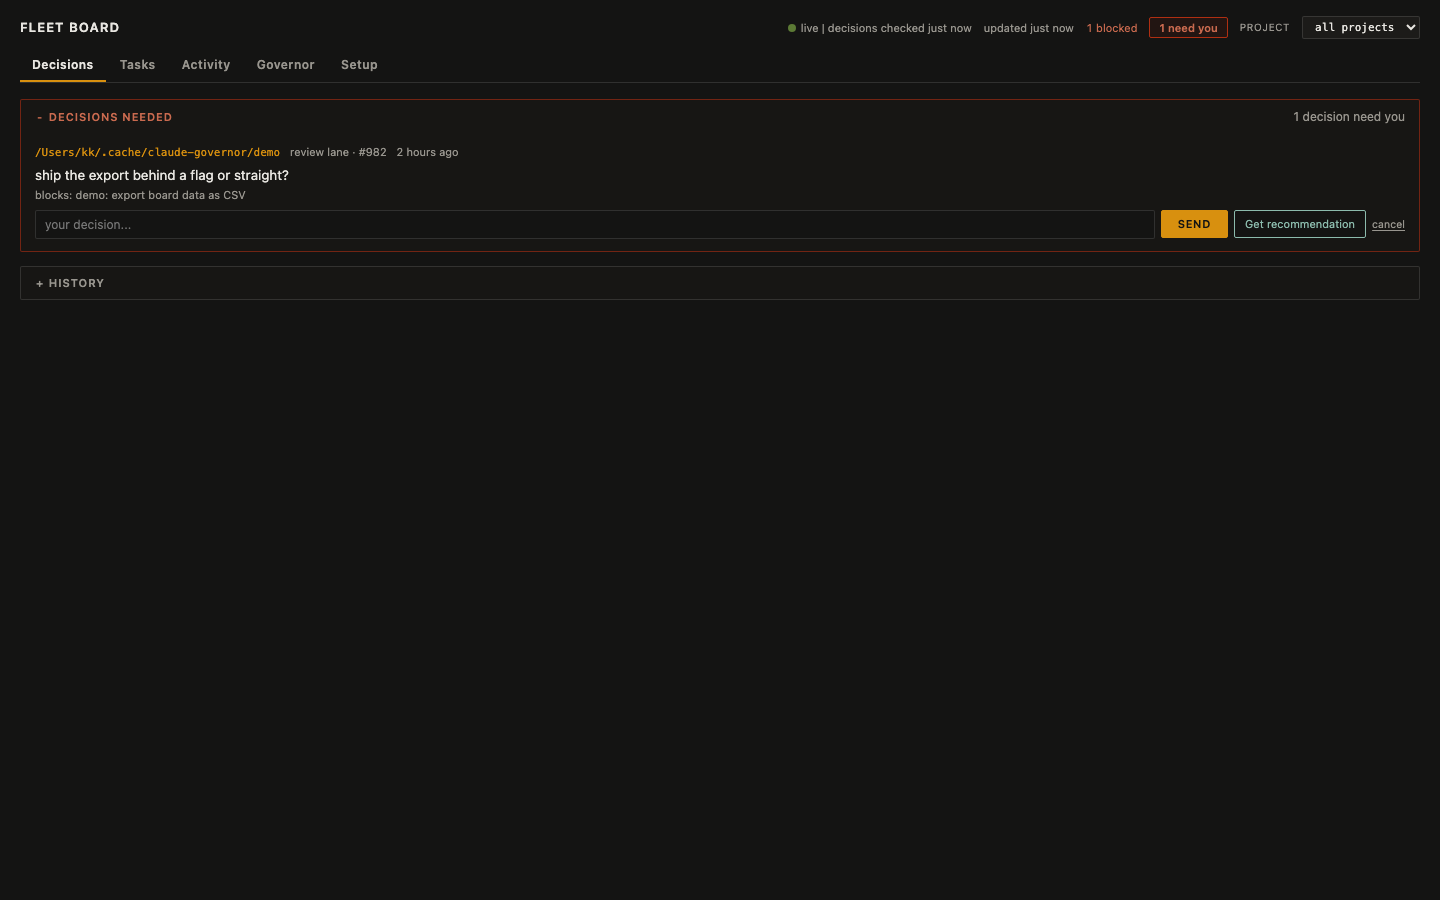
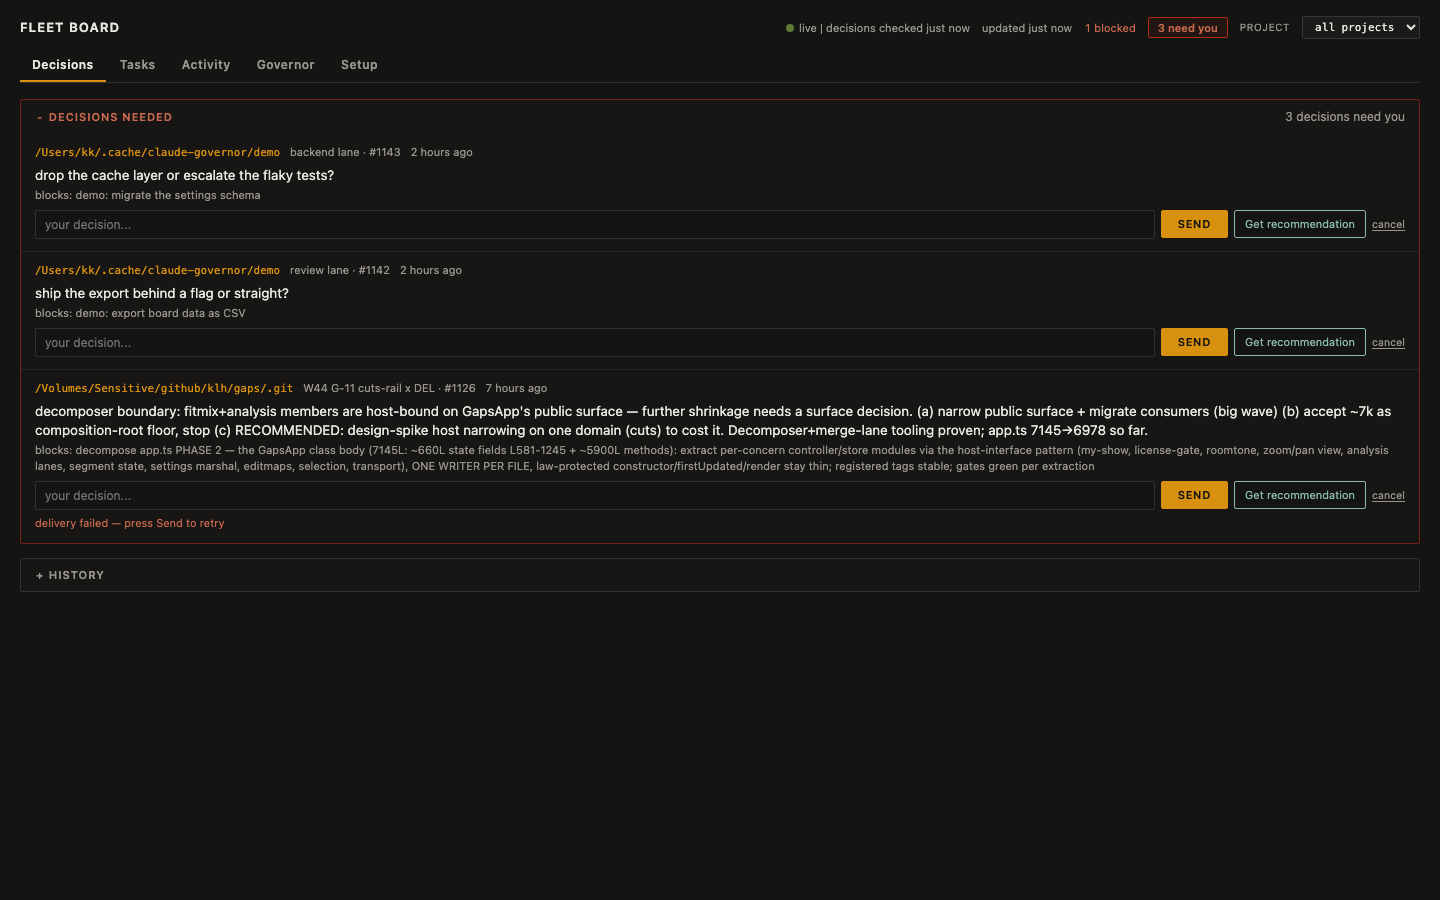
v0.2.0: pages refresh — new board views, consult KB, speedy-claude refs
Three screenshots from the seeded demo board (Decisions, Tasks, Setup);
Tasks/Setup figures added to the page. README: knowledge-evaporation
problem bullet, consult knowledge base + lease-release + board views in
Components, schema v4, extraction from and dependency of speedy-claude
stated in Status. package.json 0.2.0 with a plain-voice description.

diff --git a/pages/index.html b/pages/index.html
@@ -8,7 +8,7 @@
     <link rel="apple-touch-icon" href="apple-touch-icon.png" />
     <meta
       name="description"
-      content="A SQLite control plane for multi-agent Claude Code fleets: capability-aware dispatch, zombie detection, decisions with LLM recommendations, and a live fleet board."
+      content="A SQLite control plane for multi-agent Claude Code fleets: capability-aware dispatch, zombie detection, decisions with LLM recommendations, a consult knowledge base, and a live fleet board."
     />
     <style>
       :root { color-scheme: light; }
@@ -156,7 +156,7 @@
       </header>
 
       <section>
-        <h2>The board — monitoring and task completion in one surface</h2>
+        <h2>The board — decisions, tasks, and fleet health in one surface</h2>
         <div class="shot">
           <img
             src="screenshot.png"
@@ -166,6 +166,25 @@
         <p class="caption">
           Open decisions surface as red cards. <b>Get recommendation</b> has an LLM analyze the decision in
           control-plane context; you edit or send. Lanes, completion stats, and the event stream stay live at 1s.
+        </p>
+        <div class="grid" style="margin-top: 14px">
+          <figure class="shot" style="margin: 0">
+            <img
+              src="screenshot-tasks.png"
+              alt="Tasks view: every work item across projects with state, owner, age, and open-decision counts; filter by project or session, sort by any column"
+            />
+          </figure>
+          <figure class="shot" style="margin: 0">
+            <img
+              src="screenshot-setup.png"
+              alt="Setup view: installation checks for hook wiring, the monitor agent, and the advice endpoint, each with its fix command"
+            />
+          </figure>
+        </div>
+        <p class="caption">
+          <b>Tasks</b> tracks every work item across projects — state, owner, age, and which ones wait on a decision.
+          <b>Setup</b> checks your wiring and prints the fix when something is missing. Answered and cancelled
+          decisions keep their history instead of vanishing.
         </p>
       </section>
 
@@ -305,7 +324,7 @@ fleet board — decisions · lanes · tasks · stream   ← you, deciding</pre>
         </span>
         <span class="r">
           <a href="https://github.com/klh/suspenders">github.com/klh/suspenders</a> · extracted from the
-          <a href="https://github.com/klh/speedy-claude">speedy-claude</a> setup
+          <a href="https://github.com/klh/speedy-claude">speedy-claude</a> setup, which now runs on it
         </span>
       </footer>
     </div>

diff --git a/README.md b/README.md
@@ -14,6 +14,7 @@ Built on a SQLite database (sessions, claims, locks, events, work graph) wired i
 - **Agents die** — usage cliffs, crashes, context compaction. Suspenders notices: a session is flagged zombie only when both its heartbeat and its transcript are stale, and nothing is reclaimed without a human decision.
 - **Agents collide** — two sessions editing the same file. File leases and scope claims make the second writer wait or get refused; work items can declare required capabilities that a session must advertise before claiming.
 - **Questions get lost** — an agent asks something and keeps waiting in the dark. Questions surface as decisions on the board with the asking agent, the task they block, and an optional LLM recommendation you can accept or edit.
+- **Knowledge evaporates** — the same question gets answered twice, and the second asker waits on a busy expert anyway. Every answered consult becomes a searchable problem→solution pair; a repeat question resolves instantly, with provenance showing which agent solved it and whether that agent is still running.
 - **State lives in chat logs** — suspenders keeps task state in a per-project work graph backed by SQLite, so any session (or a restarted one) sees the same queue, claims, and history.
 
 ## Install
@@ -43,8 +44,9 @@ Every CLI is also usable from scripts — the board's answer box and the monitor
 | **Control plane** (`lib/govdb.ts`) | SQLite/WAL — sessions, claims, locks, events, facts, cursors, work graph; one database serves every repo, partitioned per project |
 | **Hook gates** (`gate.ts`) | One entrypoint: secrets gate (gitleaks + inline detection, `cd`-aware), edit-enforce, file-lease governor, mutation-size cap (denies >40-line raw mutations on existing files; `SUSPENDERS_MAX_MUTATION`), operational-ledger marker guard (no new TODO/IN-FLIGHT/BLOCKED/NEXT markers in ledgers), config guard, claim-done stop gate — the Edit/Write gates chain in one process |
 | **Work graph** (`bin/work.ts`) | `add / split / take / done / ready / mine / orphaned / reclaim / release / migrate-ledger` — compare-and-swap claims, dependency gating, capability requirements; splits beyond 2 children must reference a registered plan item; `migrate-ledger` ingests a Markdown ledger's unresolved items into the graph (deduped, idempotent, tombstones the ledger) |
-| **Coordination bus** (`bin/coord.ts`) | bootstrap, inbox, emit, wait, pause/resume with continuation capsules, consults, facts, broadcasts, `metrics` (per-item wall vs agent time, lane dwell, friction — daily snapshot facts for trend diffing) |
-| **Fleet board** (`bin/fleet-board.ts`) | Live dashboard; write endpoints for answering decisions, dismissing, and requesting recommendations (`/api/advise` → `bin/advise.ts`) |
+| **Coordination bus** (`bin/coord.ts`) | bootstrap, inbox, emit, wait, pause/resume with continuation capsules, consults, facts, broadcasts, `lease-release`, `metrics` (per-item wall vs agent time, lane dwell, friction — daily snapshot facts for trend diffing) |
+| **Consult knowledge base** (`coord kb`) | `consult-reply` harvests every answered consult as a (problem, solution) pair (FTS5); a new consult resolves against the store **before** routing to a live expert — the asker gets the stored solution instantly, with provenance and an `--no-kb` escape hatch. `kb stats\|search\|list` |
+| **Fleet board** (`bin/fleet-board.ts`) | Live dashboard — Decisions / Tasks / Activity / Governor / Setup views, project filter, task drawer, decision history; `--demo` seeds example data. Write endpoints for answering decisions, dismissing, and requesting recommendations (`/api/advise` → `bin/advise.ts`) |
 | **Advice worker** (`bin/advise.ts`) | An LLM (any OpenAI-compatible API; model autodiscovered from `/v1/models`) reads the decision with control-plane context and writes a recommendation the human can accept, edit, or ignore |
 | **Monitor** (`bin/monitor.ts`) | Read-only health; `--fix` sweeps stale sessions and locks; three-state verdicts (ZOMBIE / SUSPECT / UNKNOWN); alerts the coordinator |
 | **Usage windows** (`bin/quota-window.ts`) | Remembers observed 429 resets and predicts the next 5-hour cliff: exit 0 safe / 1 near cliff / 2 unknown |
@@ -68,7 +70,7 @@ governor.db (SQLite/WAL, ~/.cache/claude-governor/)
   ├── facts      latest-value store (advice, zombie flags, coordinator id…)
   └── locks      short-lived file leases
   ▲ 1s poll (WAL = concurrent readers)
-fleet board — decisions · tasks · lanes · event stream
+fleet board — decisions · tasks · activity · governor · setup
 ```
 
 Decision flow: a lane emits `NEED_DECISION` → the board lists it with the task it blocks → optionally `advise.ts` asks your configured LLM for a recommendation → the human edits and sends → the lane receives the `ANSWER` event on its next poll and continues.
@@ -132,7 +134,9 @@ A worked session — bootstrap, register work, capability-gated dispatch, consul
 
 ## Status
 
-In use for months on a multi-repo fleet (macOS + Bun + Claude Code); schema v2. Extracted as suspenders 2026-09-25.
+In use for months on a multi-repo fleet (macOS + Bun + Claude Code); schema v4. Extracted from the
+[speedy-claude](https://github.com/klh/speedy-claude) setup on 2026-09-25 — speedy-claude now installs
+suspenders as its control plane.
 
 ## Licensing
 
